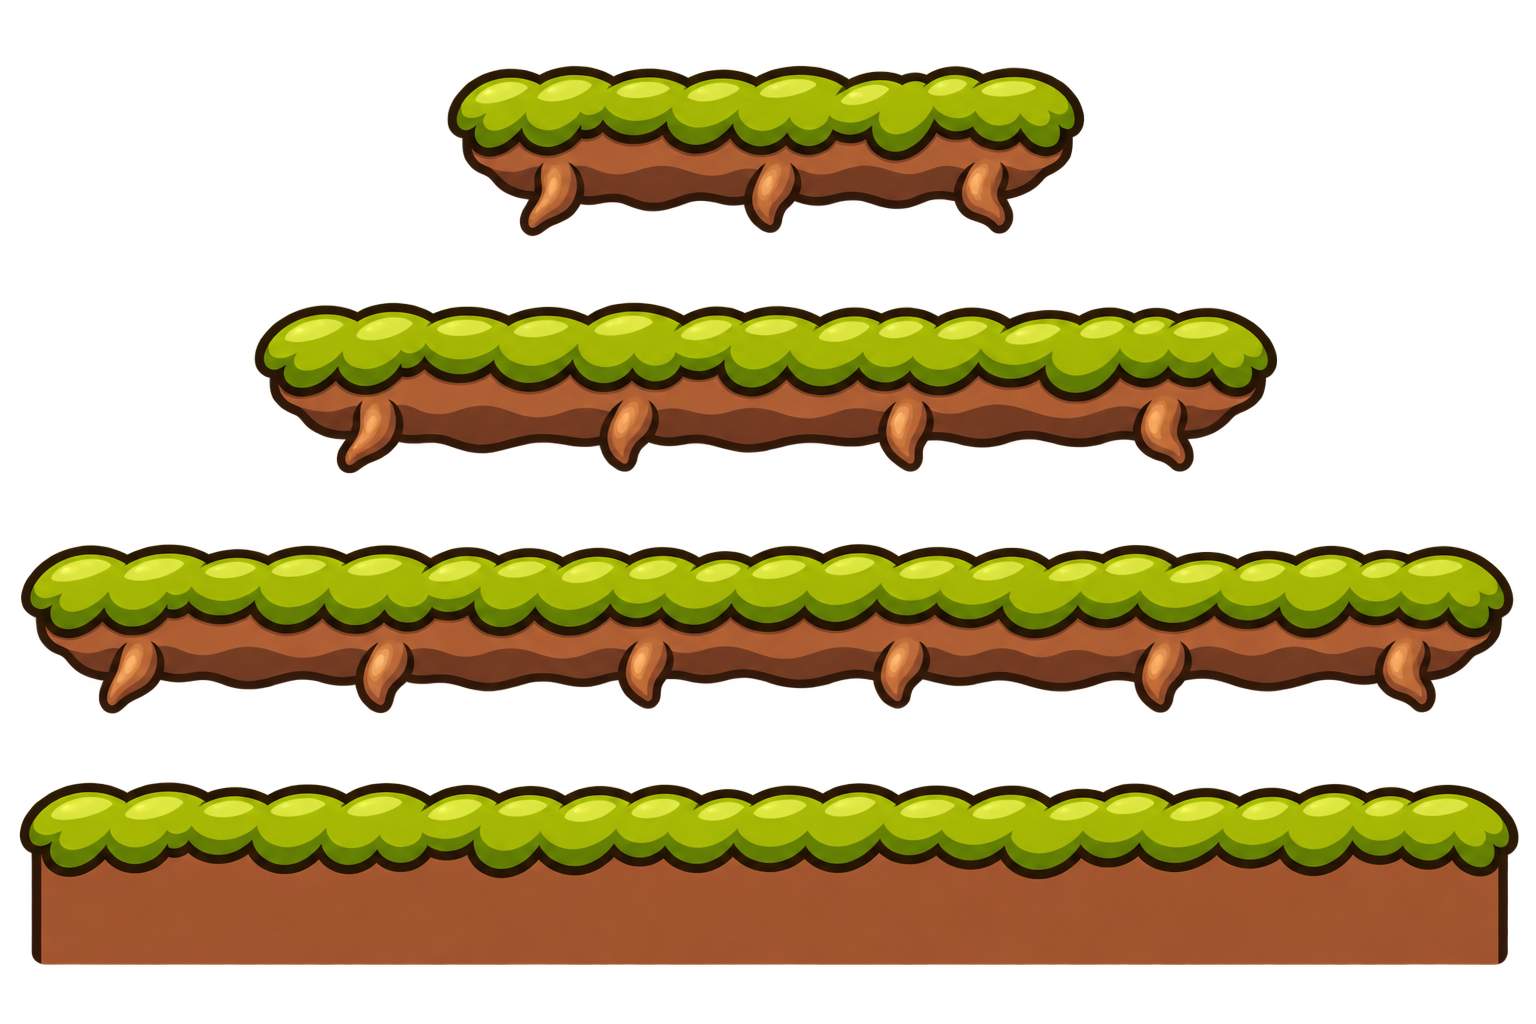
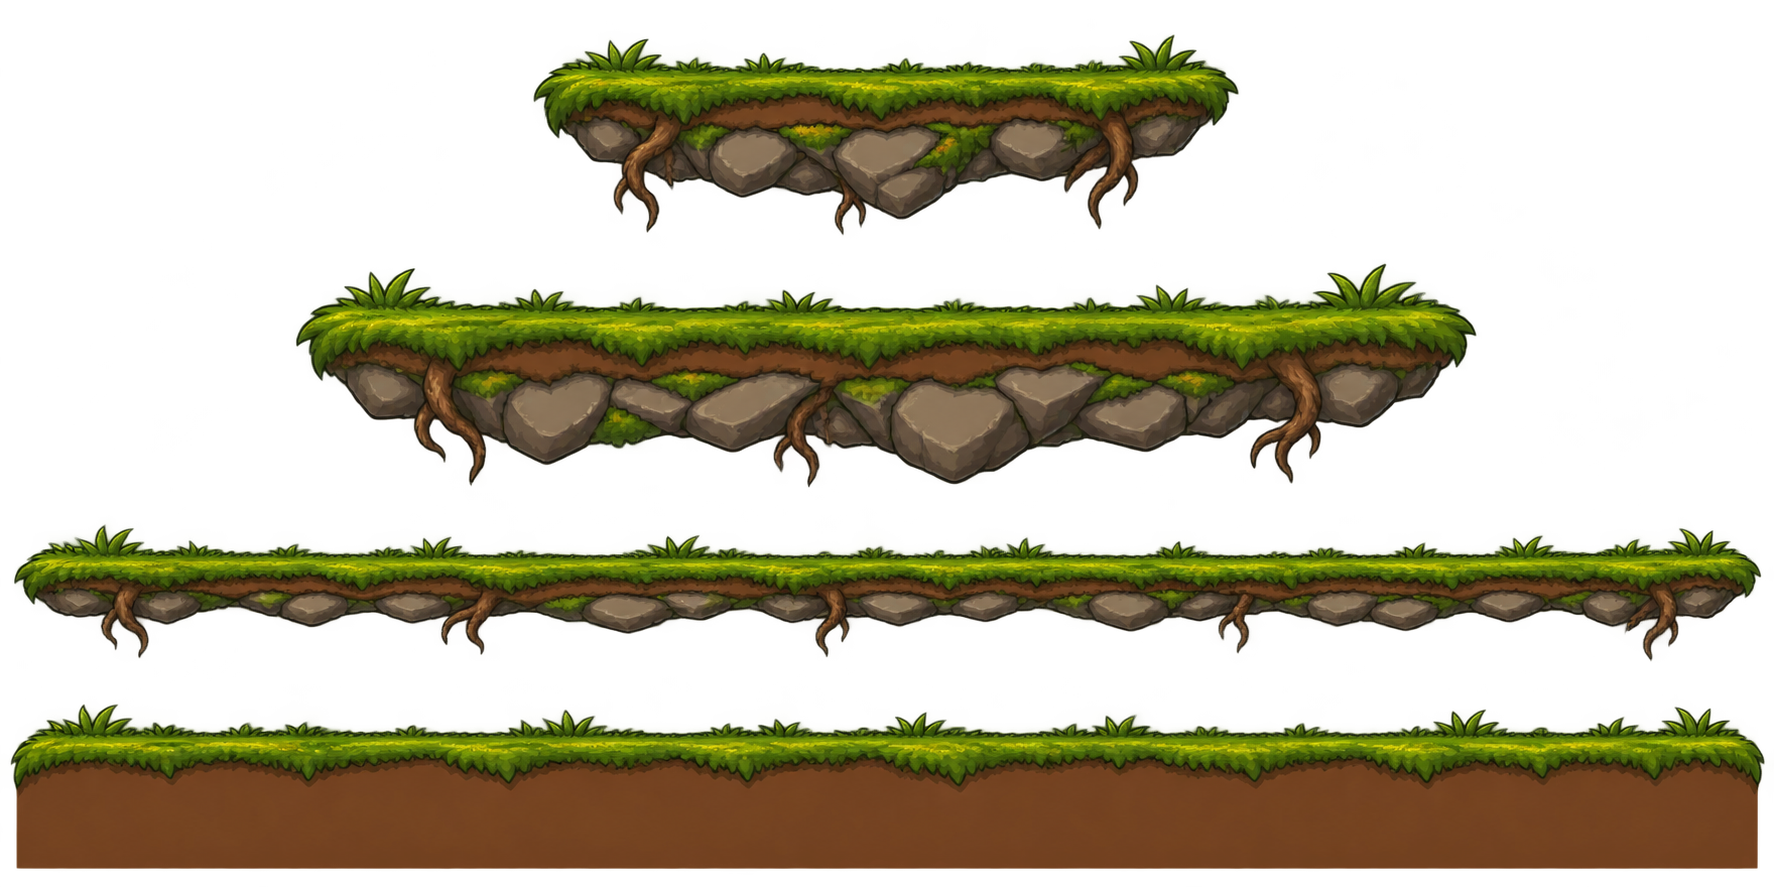
Regenerate Elderwood timber and Whispering Woods forest platforms

diff --git a/apps/web/src/generated-terrain.ts b/apps/web/src/generated-terrain.ts
@@ -25,6 +25,11 @@ function remember(scene: Phaser.Scene, map: string, key: string) {
 }
 const spans = (theme: GeneratedTerrainTheme) =>
   theme === 'crystal' ? crystalSpans : theme === 'woods' ? woodsSpans : villageSpans;
+function walkingSurface(theme: GeneratedTerrainTheme, name: string) {
+  if (theme === 'crystal') return 0;
+  const art = theme === 'woods' ? woodsSpans : villageSpans;
+  return (art.meta.walkSurfaces as Record<string, number>)[name] ?? 0;
+}
 export function preloadGeneratedTerrain(scene: Phaser.Scene, theme: GeneratedTerrainTheme) {
   if (theme === 'woods' && !scene.textures.exists('woods-clean-ladder'))
     scene.load.atlas(
@@ -99,14 +104,18 @@ export function generatedSoil(scene: Phaser.Scene, map: GameMap, theme: Generate
   const ground = map.platforms.find((p) => !p.oneWay);
   if (!ground) return;
   const f = groundFill(scene, theme),
-    key = `ground-fill-v5:${theme}`;
+    key = `ground-fill-v6:${theme}`;
   const { texture, ctx, density } = raster(scene, key, f.w, f.h);
   if (!texture.canvas.dataset.rendered) {
     paint(ctx, f, 0, 0, 1);
     texture.refresh();
     texture.canvas.dataset.rendered = 'true';
   }
-  const join = ground.y + spans(theme).meta.ground.worldHeight;
+  const spec = spans(theme).meta.ground;
+  const join =
+    ground.y +
+    spec.worldHeight -
+    (walkingSurface(theme, 'ground') * spec.worldHeight) / source(scene, theme, 'ground', true).h;
   return scene.add
     .tileSprite(ground.x, join - 1, ground.width, map.height + 1600, key)
     .setOrigin(0)
@@ -130,11 +139,12 @@ export function generatedPlatform(
     const f = source(scene, theme, 'ground', true),
       spec = spans(theme).meta.ground;
     const scale = spec.worldHeight / f.h,
+      surface = walkingSurface(theme, 'ground') * scale,
       pad = 4;
     const height = map.id.startsWith('house-')
       ? Math.max(spec.worldHeight, map.height - p.y + 160)
       : spec.worldHeight;
-    const key = `ground-connected-v5:${theme}:${map.id}:${p.id}`;
+    const key = `ground-connected-v6:${theme}:${map.id}:${p.id}`;
     remember(scene, map.id, key);
     const { texture, ctx, density } = raster(scene, key, p.width + pad * 2, height + pad * 2);
     if (!texture.canvas.dataset.rendered) {
@@ -146,26 +156,24 @@ export function generatedPlatform(
       // Houses use this same bank beneath their foundation, without a scenery soil layer.
       if (height > spec.worldHeight) {
         const fill = groundFill(scene, theme);
-        for (let y = spec.worldHeight; y < height; y += fill.h)
-          for (let x = 0; x < p.width; x += fill.w)
-            paint(
-              ctx,
-              fill,
-              pad + x,
-              pad + y,
-              1,
-              0,
-              0,
-              Math.min(fill.w, p.width - x),
-              Math.min(fill.h, height - y),
-            );
+        const tile = document.createElement('canvas');
+        tile.width = fill.w;
+        tile.height = fill.h;
+        tile
+          .getContext('2d')!
+          .drawImage(fill.image, fill.x, fill.y, fill.w, fill.h, 0, 0, fill.w, fill.h);
+        ctx.save();
+        ctx.translate(pad, pad + spec.worldHeight);
+        ctx.fillStyle = ctx.createPattern(tile, 'repeat')!;
+        ctx.fillRect(0, 0, p.width, height - spec.worldHeight);
+        ctx.restore();
       }
       texture.refresh();
       texture.canvas.dataset.rendered = 'true';
     }
     return scene.add
       .image(p.x, p.y, key)
-      .setOrigin((pad * density) / texture.width, (pad * density) / texture.height)
+      .setOrigin((pad * density) / texture.width, ((pad + surface) * density) / texture.height)
       .setScale(1 / density)
       .setDepth(0)
       .setName('terrain-platform')
@@ -181,7 +189,7 @@ export function generatedPlatform(
         generated: true,
         sourceAtlas: `${theme}-platform-spans`,
         material: 'terrain',
-        surfaceJoinY: p.y + spec.worldHeight,
+        surfaceJoinY: p.y + spec.worldHeight - surface,
       });
   }
   const dock = p.id === 'fishing-dock';
@@ -202,7 +210,7 @@ export function generatedPlatform(
     scale = p.width / f.width;
   return scene.add
     .image(p.x, p.y, atlas, name)
-    .setOrigin(0)
+    .setOrigin(0, walkingSurface(theme, name) / f.height)
     .setScale(scale)
     .setDepth(0)
     .setName('terrain-platform')

diff --git a/README.md b/README.md
@@ -205,3 +205,5 @@ provides channel/role setup, member welcomes, cosmetic class roles, showcase
 posting, updates, and moderation commands. It runs separately from the game;
 `render.discord.yaml` is its optional worker blueprint. Store credentials in
 private hosting environment variables, never in the repository.
+
+Elderwood and Whispering Woods use regenerated whole-platform atlases: oak plank decks with integrated braces and a cobblestone-edged village bank; layered warm stone, earth, moss and roots for the forest. Measured interior repeats and soil sampled from each bank keep ground joins cohesive. Platform layouts and collision routes are unchanged; check `node scripts/browser-terrain.mjs` for desktop/mobile captures.
